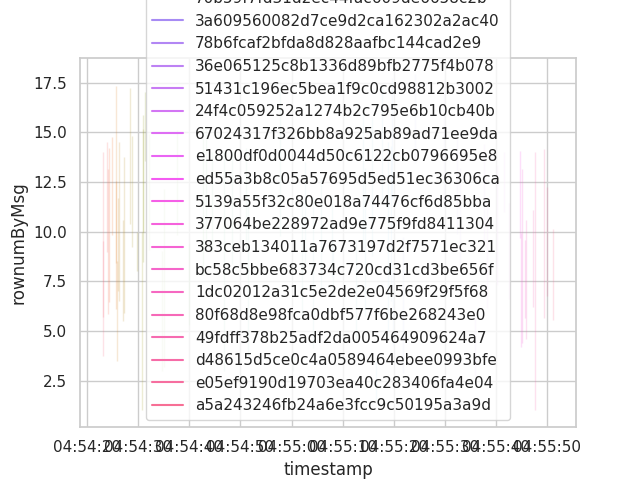
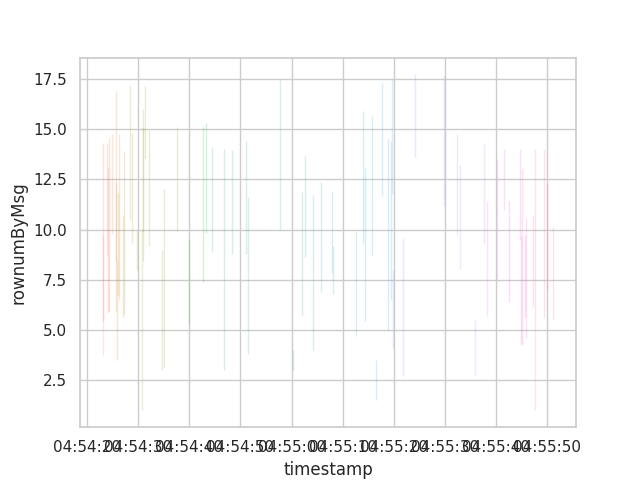
fix fig line2

Changed region(s): [[0.0312, 0.0, 0.875, 0.875], [0.0625, 0.3438, 0.125, 0.4062], [0.0625, 0.6562, 0.0938, 0.7188]]

diff --git a/mp2/analysis.py b/mp2/analysis.py
@@ -69,10 +69,9 @@ def draw_line(df, y, color, output_filename):
 	sns.set(style="whitegrid")
 	sns.despine(left=True)
 	if color != None:
-		sns_plot = sns.lineplot(x="timestamp", y=y, hue=color, data=df)
+		sns_plot = sns.lineplot(x="timestamp", y=y, hue=color, data=df, legend=False)
 	else:
-		sns_plot = sns.lineplot(x="timestamp", y=y, data=df)
-	sns_plot._legend.remove()
+		sns_plot = sns.lineplot(x="timestamp", y=y, data=df, legend=False)
 	fig = sns_plot.get_figure()
 	fig.savefig(output)
 
